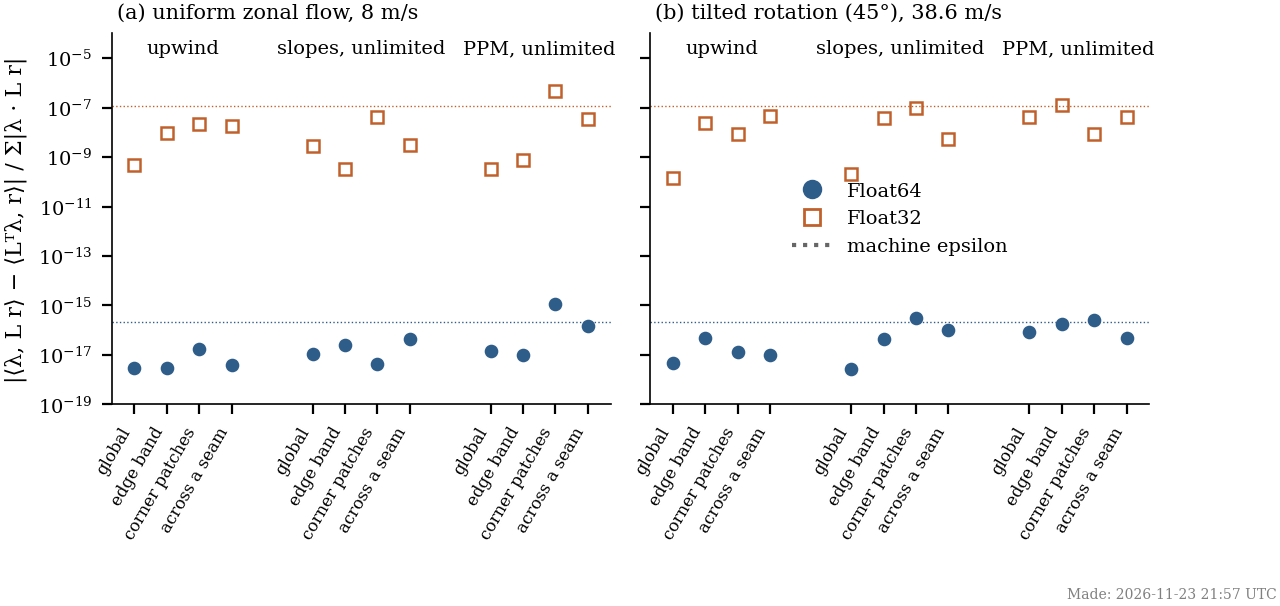
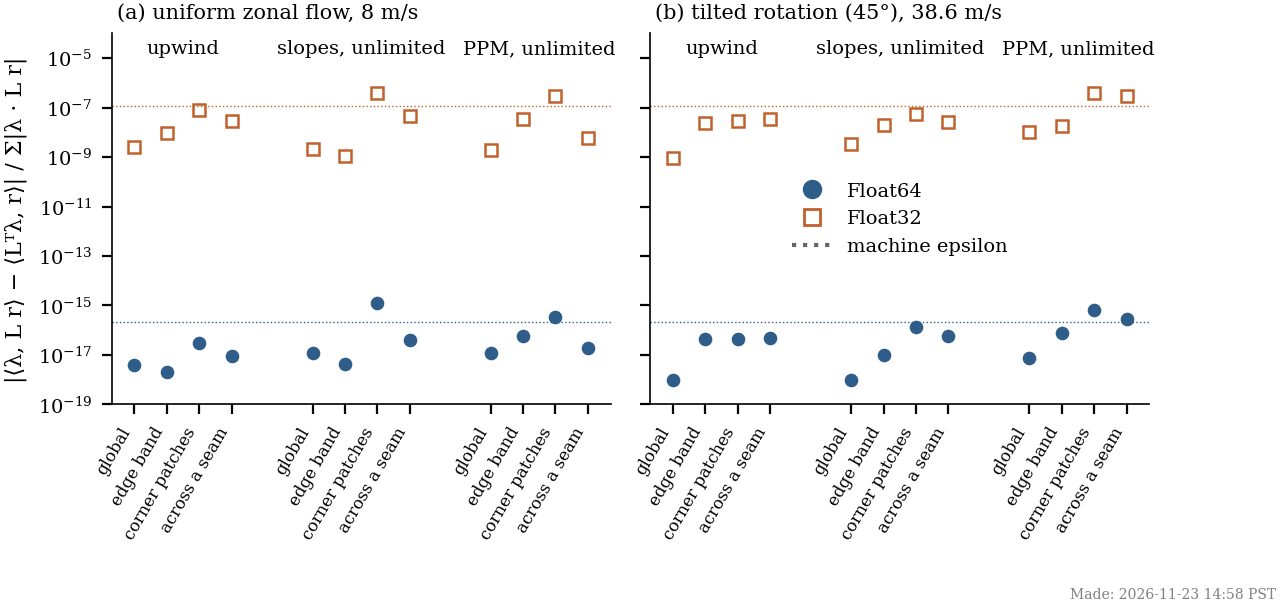
AtmosTransport adjoint page: advection tests rerun at the correct wind speed, B1/B2 finite-difference tests at seams and corners, roadmap to the OSSE

diff --git a/AtmosTransport/adjoint/a1_pbl_c90_20220701/index.html b/AtmosTransport/adjoint/a1_pbl_c90_20220701/index.html
@@ -72,8 +72,8 @@ details[open] summary { margin-bottom: 0.6rem; }
   <p class="meta"><a href="../../../">Home</a> › <a href="../../">AtmosTransport</a> › Adjoint tests</p>
   <div class="eyebrow">AtmosTransport.jl · CO₂ adjoint and 4D-Var</div>
   <h1>AT Adjoint Ladder</h1>
-  <p class="prose">Which adjoints AT can compute, which of them we have verified, the first verification step (A1: boundary-layer mixing alone), and the first advection tests (B0, B4: the cubed sphere). Part of the work towards a CO₂ 4D-Var flux inversion with <a href="https://github.com/RemoteSensingTools/AtmosTransport.jl">AtmosTransport.jl</a>.</p>
-  <p class="meta">Page generated 2026-11-23 22:05 UTC · AT origin/main 78210a013, unmodified · figures carry their own "Made:" time</p>
+  <p class="prose">Which adjoints AT can compute, which of them we have verified, the first verification step (A1: boundary-layer mixing alone), and the first advection tests (B0, B4, B1, B2: the cubed sphere). Part of the work towards a CO₂ 4D-Var flux inversion with <a href="https://github.com/RemoteSensingTools/AtmosTransport.jl">AtmosTransport.jl</a>.</p>
+  <p class="meta">Page generated 2026-11-23 15:05 PST · AT origin/main 78210a013, unmodified · figures carry their own "Made:" time</p>
 </header>
 
 <!-- ============================================================ PART 1 -->
@@ -172,7 +172,7 @@ details[open] summary { margin-bottom: 0.6rem; }
     <div class="card">
       <h3>B: advection alone</h3>
       <ul>
-        <li><span class="chip ok">done</span> B0 forward checks and B4 dot products, idealized winds: upwind, unlimited slopes, unlimited PPM (Part 3)</li>
+        <li><span class="chip ok">done</span> B0 forward checks, B4 dot products and B1/B2 finite differences at a seam and a corner, idealized winds: upwind, unlimited slopes, unlimited PPM (Part 3)</li>
         <li>B3 epsilon sweep: monotone/CW84 PPM, Lin–Rood ORD 5/7</li>
         <li>B1, B2, B5, B6 with the scheme(s) you choose</li>
       </ul>
@@ -190,6 +190,60 @@ details[open] summary { margin-bottom: 0.6rem; }
       <ul>
         <li>Every step in Float32 and Float64, on CPU and GPU</li>
         <li>Float32 is judged against the Float64 finite difference, because Float32 finite differences are not reliable for small sensitivities (Part 2)</li>
+      </ul>
+    </div>
+  </div>
+</section>
+
+
+<!-- ============================================================ ROADMAP -->
+<section id="roadmap">
+  <div class="eyebrow">Roadmap</div>
+  <h2>Before a full adjoint and the OSSE</h2>
+  <p class="prose">Verified so far: PBL mixing alone (A1: exact in Float64; Float32 error 1e-5 to 1e-4, 1 day and 1 month), and advection on the cubed sphere for the linear schemes (B0, B4, B1/B2: exact transpose across panel edges and corners, clean forward seams, finite differences at seams). Still open, in three groups. Decisions block the later tests; the meteorology for 2015–2017 is probably the longest item.</p>
+  <div class="grid2">
+    <div class="card">
+      <h3>1. Decisions</h3>
+      <ul>
+        <li><strong>Advection scheme for production:</strong> limited PPM (monotone or CW84) or Lin–Rood ORD 5. The Lin–Rood tape must stay on the GPU (about 11 days per segment at C90), so a 19-month window needs C48 or C24; PPM can stream its met inputs from host memory.</li>
+        <li><strong>OSSE resolution:</strong> C24, C48 or C90 (memory and cost per iteration).</li>
+        <li><strong>Convection:</strong> CMFMC without the clamp, the only form with an adjoint for MERRA-2.</li>
+        <li><strong>Air-mass reset:</strong> <code>preserve_tracer_mass</code> or <code>preserve_vmr</code> (both have adjoints).</li>
+        <li><strong>Precision:</strong> settled by D1/D2; is Float32 a goal?</li>
+      </ul>
+    </div>
+    <div class="card">
+      <h3>2. Verification</h3>
+      <ul>
+        <li><strong>A2</strong> PBL + CMFMC convection, column test; negative values without the clamp?</li>
+        <li><strong>A3</strong> gradient with respect to the surface flux (where and when the flux enters the step).</li>
+        <li><strong>B3</strong> epsilon sweep with the chosen limited scheme.</li>
+        <li><strong>B5, B6</strong> real MERRA-2 winds, 5 days and 1 month. The idealized tests had no vertical flux and constant air mass, so vertical advection and the air-mass resets are untested.</li>
+        <li><strong>C1</strong> all processes with real winds.</li>
+        <li><strong>E1–E4</strong> forcing timing, each observation deposited once, CPU vs GPU, one iteration reproducible (to a tolerance: GPU atomics).</li>
+        <li><strong>Observation operator</strong> on real OCO-2 soundings: units (dry mole fraction), pressure interpolation, time convention, nearest column.</li>
+        <li><strong>D1, D2</strong> 4D-Var gradient against finite differences and Taylor test, 3 months, OCO-2, prior TER × 1.3. Also the Float32 decision.</li>
+      </ul>
+    </div>
+    <div class="card">
+      <h3>3. OSSE infrastructure</h3>
+      <ul>
+        <li><strong>Meteorology</strong> for Oct 2015 – May 2017 at the chosen resolution: only Dec 2021 and Jul 2022 C90 binaries exist here.</li>
+        <li><strong>Fluxes and observations</strong> from NASA Pleiades (TER, GPP, ocean, CARDAMOM, fossil fuel; OCO-2 track and noise, the same as for GCHP); conservative regridding to the cubed sphere.</li>
+        <li><strong>Control:</strong> monthly scaling factors per cell for TER and ocean. AT's controls are additive rate windows: check whether it can scale one component, else compute dJ/dσ = Σ<sub>t</sub> (dJ/dE)<sub>t</sub> · TER<sub>t</sub> outside AT.</li>
+        <li><strong>Initial CO₂:</strong> spin-up from 1 Jan 2015 with the truth fluxes.</li>
+        <li><strong>Driver:</strong> restartable Python loop with the GCHP L-BFGS-B and correlated-B code, or AT's L-BFGS.</li>
+        <li><strong>Cost:</strong> time one full iteration (19-month forward + adjoint).</li>
+      </ul>
+    </div>
+    <div class="card">
+      <h3>Suggested order</h3>
+      <ul>
+        <li>Decisions (group 1).</li>
+        <li>In parallel, the data side: transfers and MERRA-2 preprocessing.</li>
+        <li>Meanwhile A2, A3, B3, B5 and E1 on the July 2022 data we have.</li>
+        <li>Then D1/D2 on a 3-month window.</li>
+        <li>Then the OSSE truth run and observations.</li>
       </ul>
     </div>
   </div>
@@ -340,32 +394,31 @@ details[open] summary { margin-bottom: 0.6rem; }
 
 <!-- ============================================================ PART 3 -->
 <section id="advection">
-  <div class="eyebrow">Part 3 · Tests B0 and B4</div>
-  <h2>Advection on the cubed sphere: forward checks and dot products</h2>
+  <div class="eyebrow">Part 3 · Tests B0, B4, B1 and B2</div>
+  <h2>Advection on the cubed sphere</h2>
 
   <div class="callout prose" style="display:flex;flex-direction:column;gap:0.6rem">
-    <p><strong>Question.</strong> Does AT handle the cubed sphere correctly, forward and in the adjoint: the panel edges (seams), the corners, and the halo exchange between panels? Before any finite-difference test, two checks that need no finite differences: B0, simple forward properties, and B4, whether the adjoint is the exact transpose of the forward model.</p>
-    <p><strong>What is on and off.</strong> Advection only (no PBL mixing, convection or sources). Linear schemes only, so that the transpose can be tested exactly: upwind, unlimited slopes, unlimited PPM.</p>
-    <p><strong>Winds and grid.</strong> Idealized solid-body rotation on the C90 cubed sphere with GEOS-native panels, as in the MERRA-2 binaries: (1) uniform zonal flow, 8 m/s at the equator; (2) rotation about an axis tilted 45° toward 0° E, 38.6 m/s (one revolution in 12 days), which crosses panel edges and corners. The face mass fluxes come from the stream function at the cell corners, so every cell has zero divergence to round-off (6e-16 of the largest flux): the air mass stays constant and there is no vertical flux. The edge faces are stored by both panels and carry the same flux (checked for all 1080 seam faces). 4 layers of equal thickness (independent here), time step 1800 s, largest Courant number 0.84.</p>
-    <p><strong>B0 forward checks (12 days, tilted rotation).</strong> A uniform tracer must stay uniform and the tracer mass must be conserved. A cosine bell (radius R/3, on the rotation equator) carried once around the globe must return to its start, with no imprint of the seams.</p>
-    <p><strong>B4 dot products (5 days, both flows).</strong> For random fields <i>r</i> (initial tracer mass) and λ (final adjoint), ⟨λ, L r⟩ from a forward run must equal ⟨Lᵀλ, r⟩ from an adjoint run, to round-off. Four kinds of fields: global; a band of 4 cells along every panel edge; 4 × 4 patches at every panel corner; and <i>r</i> in the edge band of panel 1 with λ in the edge bands of the other panels, so that the two fields only meet through transport across a seam. A sign error or a missing corner term in the seam code would give an O(1) difference.</p>
+    <p><strong>Correction (2026-11-23, 15:00 PST).</strong> An earlier version of this part reported runs in which the idealized face fluxes were the mass moved in a full time step. AT's transport binaries store the mass moved in <em>half</em> a step (header <code>half_dt_seconds</code>) and apply it in each half of the X Y Z Z Y X palindrome, so those runs moved air at twice the stated speed. Every comparison was between the adjoint and the same forward model, so the conclusions held; all tests below were rerun with the correct fluxes.</p>
+    <p><strong>Question.</strong> Does AT handle the cubed sphere correctly, forward and in the adjoint: the panel edges (seams), the corners and the halo exchange between panels? B0 checks simple forward properties, B4 whether the adjoint is the exact transpose of the forward model (no finite differences needed), and B1/B2 compare the adjoint with finite differences at point receptors next to a seam and a corner, as in the GCHP paper.</p>
+    <p><strong>What is on and off.</strong> Advection only (no PBL mixing, convection or sources). Linear schemes only, so that the adjoint must agree to round-off: upwind, unlimited slopes, unlimited PPM.</p>
+    <p><strong>Winds and grid.</strong> Idealized solid-body rotation on the C90 cubed sphere with GEOS-native panels, as in the MERRA-2 binaries: (1) uniform zonal flow, 8 m/s at the equator (B1; largest Courant number per sweep 0.08); (2) rotation about an axis tilted 45° toward 0° E, 38.6 m/s, one revolution in 12 days, crossing panel edges and corners (B2; Courant number up to 0.42). The face mass fluxes come from the stream function at the cell corners, so every cell has zero divergence to round-off (6e-16 of the largest flux): the air mass stays constant and there is no vertical flux. Both panels at a seam carry the same flux (checked for all 1080 seam faces). 4 layers of equal thickness (independent here), time step 1800 s.</p>
   </div>
 
-  <h3>Result</h3>
+  <h3>B0 and B4: forward checks and transpose test</h3>
+  <p class="prose"><strong>B0</strong> (12 days, tilted rotation): a uniform tracer must stay uniform, tracer mass must be conserved, and a cosine bell (radius R/3, about 19 cells) carried once around the globe must return to its start with no imprint of the seams. <strong>B4</strong> (5 days, both flows): for random fields <i>r</i> (initial tracer mass) and λ (final adjoint), ⟨λ, L r⟩ from a forward run must equal ⟨Lᵀλ, r⟩ from an adjoint run. Four kinds of fields: global; a band of 4 cells along every panel edge; 4 × 4 patches at every panel corner; and <i>r</i> in the edge band of panel 1 with λ in the edge bands of the other panels, so the two meet only through transport across a seam. A sign error or a missing corner term in the seam code would give an O(1) difference.</p>
   <ul class="prose" style="margin:0;padding-left:1.2rem;display:flex;flex-direction:column;gap:0.3rem">
-    <li><strong>B4 passes: the adjoint is the exact transpose across seams and corners.</strong> Float64: |⟨λ, L r⟩ − ⟨Lᵀλ, r⟩| / Σ|λ · L r| = 3e-18 to 1e-15 for all three schemes, both flows and all four kinds of field. Float32: 1e-10 to 5e-7, the round-off of Float32.</li>
-    <li><strong>B0 passes in Float64.</strong> A uniform tracer stays uniform to 1e-13 (upwind, slopes) and 8e-13 (PPM) over 12 days; tracer mass changes by at most 3e-16. The bell returns to its start with no visible imprint of the panel edges (figure below). Normalized errors after one revolution: PPM l2 0.049, slopes l2 0.10, upwind l2 0.84 (strongly diffusive, as expected for a first-order scheme; the bell radius is about 19 cells).</li>
-    <li><strong>Float32: the air mass drifts by up to 8.6e-4 in 12 days</strong>, and a uniform tracer by 4e-5 (upwind, slopes) to 3e-4 (PPM). The fluxes are divergence-free in Float64, but rounding each one to Float32 leaves a small divergence that accumulates, because this idealized run never resets the air mass. Production runs reset it to the meteorology at every met window, so this drift should not build up there. The bell errors are the same as in Float64 to three digits.</li>
+    <li><strong>B4 passes: the adjoint is the exact transpose across seams and corners.</strong> |⟨λ, L r⟩ − ⟨Lᵀλ, r⟩| / Σ|λ · L r| = 3e-19 to 1e-15 in Float64 and 9e-10 to 4e-7 in Float32 (the round-off of each precision), for all three schemes, both flows and all four kinds of field.</li>
+    <li><strong>B0 passes in Float64.</strong> A uniform tracer stays uniform to 1e-13 to 3e-13 over 12 days; tracer mass changes by at most 4e-16. The bell returns without any imprint of the panel edges. Normalized errors after one revolution (l2): PPM 0.027, slopes 0.055, upwind 0.72 (first order, strongly diffusive).</li>
+    <li><strong>Float32: the air mass drifts by up to 3.8e-4 in 12 days</strong>, a uniform tracer by 4e-5 (upwind, slopes) to 1.5e-4 (PPM). The fluxes are divergence-free in Float64, but rounding each one to Float32 leaves a small divergence that accumulates, because this idealized run never resets the air mass. Production runs reset it to the meteorology at every met window; to be checked with real winds (B5). The bell errors equal the Float64 ones to three digits.</li>
   </ul>
 
   <figure>
     <img src="img/fig_b4_dot.png" alt="Dot-product test error for three advection schemes, four kinds of random fields and two flows, Float64 and Float32" loading="lazy">
     <figcaption><strong>B4: transpose test.</strong> |⟨λ, L r⟩ − ⟨Lᵀλ, r⟩| normalized by Σ|λ · L r|, for (a) the uniform zonal flow and (b) the tilted rotation, 5 days, C90, GPU. Filled circles: Float64; open squares: Float32; dotted lines: machine epsilon of each precision.</figcaption>
   </figure>
-
   <figure>
     <img src="img/fig_b0_bell.png" alt="Cosine bell after one revolution around the globe for three schemes, final field and error, with panel edges" loading="lazy">
-    <figcaption><strong>B0: cosine bell after one revolution</strong> (12 days, rotation tilted 45°, Float64, C90). Left: final field; right: final − initial. Black contours: the initial bell (0.1, 0.5, 0.9); grey: the panel edges. Upwind diffuses the bell; slopes and PPM keep it, with the dispersive trailing ripples of unlimited schemes. No pattern follows the panel edges.</figcaption>
+    <figcaption><strong>B0: cosine bell after one revolution</strong> (12 days, rotation tilted 45°, Float64, C90). Left: final field; right: final − initial. Black contours: the initial bell (0.1, 0.5, 0.9); grey: the panel edges. Upwind diffuses the bell; slopes and PPM keep it, with the trailing ripples of unlimited schemes. No pattern follows the panel edges.</figcaption>
   </figure>
 
   <div class="scroll">
@@ -373,32 +426,49 @@ details[open] summary { margin-bottom: 0.6rem; }
     <thead><tr><th>B0, 12 days</th><th class="num">Uniform tracer, max |q/q₀ − 1|</th><th class="num">Air mass, max |m/m₀ − 1|</th><th class="num">Bell l1</th><th class="num">l2</th><th class="num">l∞</th><th class="num">Bell max</th><th class="num">Bell min</th><th class="num">Time, 12 days</th></tr></thead>
     <tbody>
       <tr class="group"><td colspan="9">Float64</td></tr>
-      <tr><td>upwind</td><td class="num">1.1e-13</td><td class="num">2.1e-11</td><td class="num">1.416</td><td class="num">0.835</td><td class="num">0.864</td><td class="num">0.135</td><td class="num">0</td><td class="num">1.7 s</td></tr>
-      <tr><td>slopes, unlimited</td><td class="num">2.0e-13</td><td class="num">2.1e-11</td><td class="num">0.153</td><td class="num">0.101</td><td class="num">0.098</td><td class="num">0.968</td><td class="num">−0.038</td><td class="num">1.9 s</td></tr>
-      <tr><td>PPM, unlimited</td><td class="num">8.2e-13</td><td class="num">2.1e-11</td><td class="num">0.088</td><td class="num">0.049</td><td class="num">0.050</td><td class="num">0.980</td><td class="num">−0.027</td><td class="num">1.6 s</td></tr>
+      <tr><td>upwind</td><td class="num">1.1e-13</td><td class="num">1.0e-11</td><td class="num">1.131</td><td class="num">0.719</td><td class="num">0.761</td><td class="num">0.238</td><td class="num">0</td><td class="num">1.1 s</td></tr>
+      <tr><td>slopes, unlimited</td><td class="num">1.6e-13</td><td class="num">1.0e-11</td><td class="num">0.082</td><td class="num">0.055</td><td class="num">0.049</td><td class="num">0.982</td><td class="num">−0.024</td><td class="num">1.1 s</td></tr>
+      <tr><td>PPM, unlimited</td><td class="num">3.5e-13</td><td class="num">1.0e-11</td><td class="num">0.046</td><td class="num">0.027</td><td class="num">0.026</td><td class="num">0.998</td><td class="num">−0.017</td><td class="num">0.9 s</td></tr>
       <tr class="group"><td colspan="9">Float32</td></tr>
-      <tr><td>upwind</td><td class="num">3.8e-5</td><td class="num">8.6e-4</td><td class="num">1.416</td><td class="num">0.835</td><td class="num">0.864</td><td class="num">0.135</td><td class="num">0</td><td class="num">1.6 s</td></tr>
-      <tr><td>slopes, unlimited</td><td class="num">4.7e-5</td><td class="num">8.6e-4</td><td class="num">0.153</td><td class="num">0.101</td><td class="num">0.098</td><td class="num">0.968</td><td class="num">−0.038</td><td class="num">1.2 s</td></tr>
-      <tr><td>PPM, unlimited</td><td class="num">3.0e-4</td><td class="num">8.6e-4</td><td class="num">0.088</td><td class="num">0.049</td><td class="num">0.050</td><td class="num">0.980</td><td class="num">−0.027</td><td class="num">1.2 s</td></tr>
+      <tr><td>upwind</td><td class="num">3.8e-5</td><td class="num">3.8e-4</td><td class="num">1.131</td><td class="num">0.719</td><td class="num">0.761</td><td class="num">0.238</td><td class="num">0</td><td class="num">1.2 s</td></tr>
+      <tr><td>slopes, unlimited</td><td class="num">3.9e-5</td><td class="num">3.8e-4</td><td class="num">0.082</td><td class="num">0.055</td><td class="num">0.049</td><td class="num">0.982</td><td class="num">−0.024</td><td class="num">0.8 s</td></tr>
+      <tr><td>PPM, unlimited</td><td class="num">1.5e-4</td><td class="num">3.8e-4</td><td class="num">0.046</td><td class="num">0.027</td><td class="num">0.026</td><td class="num">0.998</td><td class="num">−0.017</td><td class="num">0.8 s</td></tr>
     </tbody>
   </table>
   </div>
-  <p class="meta">l1, l2, l∞: normalized errors of Williamson et al. (1992), area-weighted. Time: one forward run of 576 steps, GPU, after compilation.</p>
+  <p class="meta">l1, l2, l∞: normalized errors of Williamson et al. (1992), area-weighted. Time: one forward run of 576 steps on the GPU after compilation. B4 timing (5 days, 240 steps, after compilation): forward 0.2–0.5 s, adjoint 0.8–1.8 s in Float64; 0.2–0.3 s and 0.8–1.4 s in Float32.</p>
 
-  <h3>Timing, B4 (5 days, 240 steps, C90, 4 layers, GPU)</h3>
+  <h3 id="b12">B1 and B2: adjoint against finite differences at a seam and a corner</h3>
+  <p class="prose"><strong>Setup.</strong> 5 days. Receptor: the mixing ratio at the end in one cell of layer 2. On the streamline through a panel-edge crossing and on the streamline through a cube corner, receptors are placed 3 cells upwind, in the first cell downstream of the seam or corner ("on"), and 3 cells downwind: 6 receptors per flow. For each receptor, the cell of largest adjoint sensitivity and 9 cells with sensitivities spaced logarithmically down to 10<sup>−4.5</sup> of it are perturbed by ±20 ppm on a 400 ppm background (central FD), and by +20 ppm alone (linear FD, no cancellation); about 60 cells per flow and scheme, each forward run giving the FD at all 6 receptors. The Float32 adjoint is compared with the Float64 FD on the cells both runs chose.</p>
+  <ul class="prose" style="margin:0;padding-left:1.2rem;display:flex;flex-direction:column;gap:0.3rem">
+    <li><strong>Float64 passes at every receptor, for both flows and all three schemes.</strong> Against the linear FD: median 3e-16 to 2e-14, max 6e-12. Against the central FD: weighted error 4e-13 to 4e-11 (the central FD's own round-off), all signs correct.</li>
+    <li><strong>Float32 adjoint against the Float64 FD:</strong> weighted error 5e-6 to 1.3e-4, median 1e-5 to 2e-4, all signs correct. The Float32 central FD itself is noise for small sensitivities (up to order 1 error, wrong signs), as in A1.</li>
+    <li>The footprints show the alternating positive and negative rings of an unlimited scheme (41–47 % of Σ|footprint| negative), the true derivative of the discrete scheme, as in the GCHP DISC footprints. No feature follows the panel edges.</li>
+  </ul>
+  <figure>
+    <img src="img/fig_b12_err.png" alt="Relative error of the adjoint against finite differences for B1 and B2, three schemes, coloured by receptor, Float64 and Float32" loading="lazy">
+    <figcaption><strong>B1/B2: |adjoint/FD − 1| against |FD|</strong> (central FD, ε = 20 ppm, Float64), C90, 5 days, GPU. Rows: B1 (zonal flow, 8 m/s), B2 (rotation tilted 45°); columns: scheme. Colour: receptor; filled circles: Float64 adjoint; open squares: Float32 adjoint. The Float64 error falls as 1/|FD| (round-off of the central FD, as in A1).</figcaption>
+  </figure>
+  <figure>
+    <img src="img/fig_b12_fp.png" alt="Adjoint footprints of receptors on a panel edge and at a cube corner, for both flows" loading="lazy">
+    <figcaption><strong>Adjoint footprints</strong> ∂q<sub>end</sub>(receptor)/∂q<sub>0</sub> of the receptors on the seam and at the corner, unlimited PPM, Float64, symmetric logarithmic colour scale; + marks the receptor, grey the panel edges. (a, b) B1: the footprint lies 31° upstream (8 m/s × 5 days). (c, d) B2: the footprint lies along the tilted rotation circle.</figcaption>
+  </figure>
   <div class="scroll">
   <table>
-    <thead><tr><th>Scheme</th><th class="num">Forward, Float64</th><th class="num">Adjoint, Float64</th><th class="num">Forward, Float32</th><th class="num">Adjoint, Float32</th></tr></thead>
+    <thead><tr><th>Flow, scheme</th><th class="num">Float64 vs linear FD, median</th><th class="num">max</th><th class="num">Float64 vs central FD, weighted</th><th class="num">Float32 vs Float64 FD, weighted</th><th class="num">median</th><th class="num">same sign</th><th class="num">Time: 6 footprints / FD (F64)</th></tr></thead>
     <tbody>
-      <tr><td>upwind</td><td class="num">0.2–0.5 s</td><td class="num">0.8–2.5 s</td><td class="num">0.2–0.5 s</td><td class="num">0.7–2.5 s</td></tr>
-      <tr><td>slopes, unlimited</td><td class="num">0.3–0.9 s</td><td class="num">0.9–3.3 s</td><td class="num">0.2–0.5 s</td><td class="num">0.7–2.5 s</td></tr>
-      <tr><td>PPM, unlimited</td><td class="num">0.2–0.7 s</td><td class="num">0.9–2.9 s</td><td class="num">0.2–0.5 s</td><td class="num">0.8–2.5 s</td></tr>
+      <tr class="group"><td colspan="8">B1, zonal flow 8 m/s</td></tr>
+      <tr><td>upwind</td><td class="num">5.6e-16</td><td class="num">2.2e-15</td><td class="num">5.8e-13</td><td class="num">7.7e-6</td><td class="num">9.7e-6</td><td class="num">100 %</td><td class="num">33 s / 40 s</td></tr>
+      <tr><td>slopes, unlimited</td><td class="num">1.6e-15</td><td class="num">7.2e-13</td><td class="num">4.3e-13</td><td class="num">1.8e-5</td><td class="num">2.7e-5</td><td class="num">100 %</td><td class="num">16 s / 51 s</td></tr>
+      <tr><td>PPM, unlimited</td><td class="num">6.9e-15</td><td class="num">1.6e-12</td><td class="num">6.7e-13</td><td class="num">6.1e-5</td><td class="num">4.7e-5</td><td class="num">100 %</td><td class="num">16 s / 46 s</td></tr>
+      <tr class="group"><td colspan="8">B2, rotation tilted 45°, 38.6 m/s</td></tr>
+      <tr><td>upwind</td><td class="num">3.3e-16</td><td class="num">1.8e-15</td><td class="num">3.8e-11</td><td class="num">4.5e-6</td><td class="num">1.5e-5</td><td class="num">100 %</td><td class="num">37 s / 62 s</td></tr>
+      <tr><td>slopes, unlimited</td><td class="num">1.1e-15</td><td class="num">5.6e-14</td><td class="num">2.3e-12</td><td class="num">4.7e-5</td><td class="num">4.8e-5</td><td class="num">100 %</td><td class="num">21 s / 83 s</td></tr>
+      <tr><td>PPM, unlimited</td><td class="num">2.3e-14</td><td class="num">5.7e-12</td><td class="num">5.0e-12</td><td class="num">1.3e-4</td><td class="num">2.1e-4</td><td class="num">100 %</td><td class="num">20 s / 74 s</td></tr>
     </tbody>
   </table>
   </div>
-  <p class="meta">Ranges over the field kinds and the two flows, after compilation (the first call of each scheme takes 5–16 s, mostly compilation). The adjoint includes the forward run that records the tape.</p>
-
-  <p class="meta">Scripts: <code>tests/b_adv/b_adv.jl</code> (tests), <code>tests/b_adv/fig_b_adv.py</code> (figures, statistics). Data: <code>/temp2/ksuselj/adjoint_exps/b_adv/</code>. Next: B1/B2 finite-difference tests with point receptors at seams and corners, then real winds (B5).</p>
+  <p class="meta">Pooled over the 6 receptors and about 60 perturbed cells; |FD| &gt; 1e-8. FD time: about 60 cells × 3 forward runs of 240 steps. The first scheme's adjoint time includes about 15 s of compilation. Scripts: <code>tests/b_adv/b_adv.jl</code> (tests), <code>tests/b_adv/fig_b_adv.py</code>, <code>tests/b_adv/fig_b12.py</code> (figures, statistics). Data: <code>/temp2/ksuselj/adjoint_exps/b_adv/</code>. Next: real MERRA-2 winds (B5), and the epsilon sweep (B3) once the limited scheme is chosen.</p>
 </section>
 </main>
 

diff --git a/AtmosTransport/index.html b/AtmosTransport/index.html
@@ -19,6 +19,6 @@ GEOS-IT, C90 L72, 1 Dec 2021. Surface-layer CO2 tracer, non-local PBL scheme.</l
 <ul>
 <li><a href="adjoint/a1_pbl_c90_20220701/">Which adjoints AtmosTransport supports, and test A1: boundary-layer mixing alone</a>:
 map of the adjoint options (advection, PBL mixing, convection, observations); adjoint vs finite differences in every column, MERRA-2 C90, July 2022, 1 day and 1 month,
-Float32 and Float64 on CPU and GPU, with timing. Float64 agrees to round-off; Float32 error about 1e-5 after 1 day, 2e-5 to 1e-4 after 1 month. Advection on the cubed sphere (B0, B4): the adjoint is the exact transpose across panel edges and corners (dot products to 1e-15).</li>
+Float32 and Float64 on CPU and GPU, with timing. Float64 agrees to round-off; Float32 error about 1e-5 after 1 day, 2e-5 to 1e-4 after 1 month. Advection on the cubed sphere (B0, B4, B1/B2): the adjoint is the exact transpose across panel edges and corners (dot products to 1e-15) and matches finite differences at seam and corner receptors to round-off.</li>
 </ul>
 </main></body></html>
